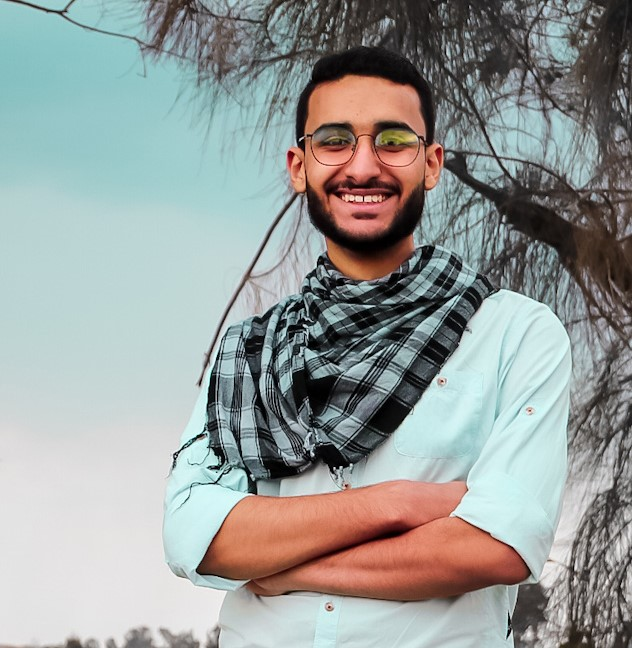
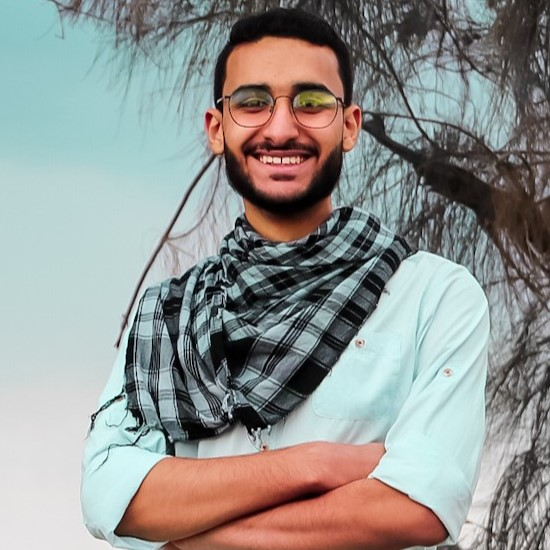
i designed navbar and sidebar and just started a page

diff --git a/src/components/Sidebar.js b/src/components/Sidebar.js
@@ -1,10 +1,53 @@
 import mainPhoto from '../imgs/mainPhoto.jpg'
-
+import '../Css/sidebar.css'
 function Sidebar(){
     return (
         <>
             <div className="sidebar">
-                <img src={mainPhoto} alt='My Image'/>
+                <div className='main-info'>
+                    <div className='photo'>
+                        <img src={mainPhoto} alt='My Image'/>
+                    </div>
+                    <h1>Salem Elbaraa</h1>
+                    <p>Front-End Developer in Russia</p>
+                </div>
+                <div className='links'>
+                    <ul>
+                        <li className='active'>
+                            <a href='#'>Home</a>
+                        </li>
+                        <li>
+                            <a href='#'>About</a>
+                        </li>
+                        <li>
+                            <a href='#'>Sevices</a>
+                        </li>
+                        <li>
+                            <a href='#'>Skills</a>
+                        </li>
+                        <li>
+                            <a href='#'>Education</a>
+                        </li>
+                        <li>
+                            <a href='#'>Experience</a>
+                        </li>
+                        <li>
+                            <a href='#'>Work</a>
+                        </li>
+                        <li>
+                            <a href='#'>Blog</a>
+                        </li>
+                        <li>
+                            <a href='#'>Contact</a>
+                        </li>
+                    </ul>
+                </div>
+                <div className='footer-sidebar'>
+                    <div >
+                        © Copyright ©2024 All rights reserved | This template is made with <span></span> by Colorlib
+                    </div>
+                    <div>My GitHub: <a href='https://github.com/Elbaraa-Saber'>Click Me</a></div>
+                </div>
             </div>
         </>
     );

diff --git a/src/Css/sidebar.css b/src/Css/sidebar.css
@@ -1,0 +1,79 @@
+.sidebar {
+    width: 300px;
+    text-align: center;
+    padding-top: 3em;
+    padding-bottom: 40px;
+    overflow-y: scroll;
+    background-color: #f2f3f7;
+    height: 600px;
+    float: left;
+}
+.sidebar .photo {
+    margin-bottom: 30px;
+}
+.sidebar .photo img{
+    width: 150px;
+    height: 150px;
+    border-radius: 50%;
+}
+.sidebar .main-info h1{
+    margin: 0 auto 10px;
+    font-size: 22px;
+    font-weight: 700;
+    text-transform: uppercase;
+}
+.sidebar .main-info p{
+    font-size: 12px;
+    text-transform: uppercase;
+    margin-bottom: 30px;
+    color: rgb(0 0 0 / 70%);
+}
+.sidebar ul{
+    padding: 0;
+}
+.sidebar li{
+    margin: 0 0 15px 0;
+    list-style: none;
+    padding: 0;
+    font-size: 12px;
+    font-weight: 500;
+    text-transform: uppercase;
+    letter-spacing: 1px;
+}
+.sidebar li a{
+    text-decoration: none;
+    color: rgb(0 0 0 / 70%);
+    padding: 10px 0;
+    position: relative;
+}
+.sidebar li a::after{
+    content: '';
+    position: absolute;
+    height: 1px;
+    width: 0;
+    transition: 0.3s;
+    background-color: #2c98f0;
+    left: 0;
+    bottom: 7px;
+}
+.sidebar li:hover > a::after,
+.sidebar li.active a::after
+{
+    width: 100%;
+}
+
+.sidebar .footer-sidebar div:first-of-type{
+    margin: 30px auto 10px;
+    font-size: 12px;
+    color: rgb(0 0 0 / 50%);
+}
+.sidebar .footer-sidebar div:last-of-type{
+    font-size: 16px;
+    color: rgb(0 0 0 / 50%);
+}
+.sidebar .footer-sidebar div:last-of-type a{
+    text-decoration: none;
+    color: #2c98f0;
+    font-size: 15px;
+    font-weight: 500;
+}

diff --git a/public/index.html b/public/index.html
@@ -27,7 +27,7 @@
     <title>React App</title>
     <link rel="preconnect" href="https://fonts.googleapis.com">
     <link rel="preconnect" href="https://fonts.gstatic.com" crossorigin>
-    <link href="https://fonts.googleapis.com/css2?family=Assistant:wght@200..800&display=swap" rel="stylesheet">
+    <link href="https://fonts.googleapis.com/css2?family=Quicksand:wght@300..700&display=swap" rel="stylesheet">
     <link rel="stylesheet" href="https://pro.fontawesome.com/releases/v6.0.0-beta1/css/all.css">
 </head>
   </head>

diff --git a/src/index.css b/src/index.css
@@ -1,12 +1,11 @@
 body {
   margin: 0;
-  font-family: -apple-system, BlinkMacSystemFont, 'Segoe UI', 'Roboto', 'Oxygen',
-    'Ubuntu', 'Cantarell', 'Fira Sans', 'Droid Sans', 'Helvetica Neue', "Assistant",
-    sans-serif;
-  -webkit-font-smoothing: antialiased;
-  -moz-osx-font-smoothing: grayscale;
+  font-family: "Quicksand", sans-serif;
   font-optical-sizing: auto;
-  
+  font-weight: weight;
+  font-style: normal;
+  -webkit-font-smoothing: antialiased;
+  -moz-osx-font-smoothing: grayscale;  
 }
 
 code {

diff --git a/src/components/Home.js b/src/components/Home.js
@@ -1,0 +1,16 @@
+import '../Css/home.css'
+
+function Home (){
+    return (
+        <>
+            <div className="home" id="home">
+                <h1>
+                    Hi!<br></br>I'm Elbaraa
+                </h1>
+                <p>100% html5 bootstrap templates Made by <a href="https://github.com/Elbaraa-Saber">Salem Elbaraa</a></p>
+            </div>
+        </>
+    );
+}
+
+export default Home;

diff --git a/src/App.js b/src/App.js
@@ -2,12 +2,15 @@ import logo from './logo.svg';
 import './App.css';
 import Navbar from './components/Navbar';
 import Sidebar from './components/Sidebar';
-
+import Page from './components/Page';
 function App() {
   return (
     <div className="App">
       <Navbar/>
-      <Sidebar/>
+      <div className='container'>
+        <Sidebar/>
+        <Page/>
+      </div>
     </div>
   );
 }

diff --git a/src/components/Page.js b/src/components/Page.js
@@ -1,0 +1,11 @@
+import Home from "./Home";
+
+function Page (){
+    return (
+        <>
+            <Home/>
+        </>
+    );
+}
+
+export default Page;

diff --git a/src/Css/home.css b/src/Css/home.css
@@ -1,0 +1,4 @@
+.home {
+    background-image: url(../imgs/background1.jpg);
+    width: ;
+}

diff --git a/src/App.css b/src/App.css
@@ -1,0 +1,4 @@
+.container {
+    max-width: 1170px;
+    margin: 0 auto;
+}
